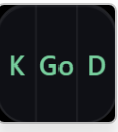
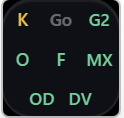
docs: 换新截图并同步 11 家平台与体积口径
新增两张实机截图（悬浮球 8 个监控对象、展开面板含 Devin 在内的 11 家平台明细），
替换原来只覆盖 6 家的旧图；图片下方补一句图注说明格色与倒计时的含义。
体积文案同步实测值（exe 11.14 MB、工作集 65.6 MB），Factory 一行改成
「Standard 用满后改由 Core 池接管展示」。

diff --git a/README.md b/README.md
@@ -7,13 +7,15 @@ A desktop floating ball + AI platform quota monitoring tool: displays API quota 
 ![Floating Ball](docs/screenshots/preview-1.png)
 ![Expanded Panel](docs/screenshots/preview-2.png)
 
+<sub>Floating ball: one cell per monitored object, cell color = status (green / yellow / red, off when exhausted). Expanded panel: every object's windows and countdown, the countdown labelled with the window it belongs to.</sub>
+
 **11 platforms**: [Kimi](https://platform.kimi.com) · [Xfyun](https://maas.xfyun.cn) · [OpenCode Go](https://opencode.ai/zen) · [Xiaomi MiMo](https://platform.xiaomimimo.com) · [DeepSeek](https://www.deepseek.com/platform) · [Ollama](https://ollama.com/settings) · [Command Code](https://commandcode.ai) · [Factory Droid](https://factory.ai) · [MiniMax](https://platform.minimaxi.com) · [Open Design](https://open-design.ai) · [Devin](https://app.devin.ai)
 
 > The registry supports 11 platforms. A **monitored object** is one credential × one plan card, so a platform with two API keys or two plans takes more than one cell. The floating ball shows **up to 9 objects normally, up to 16 in extended mode**; anything beyond that collapses into a `+N` cell (the panel still lists every object).
 
 - **Tech Stack**: Go 1.24 + Wails v2.12.0 + Vanilla HTML/CSS/JS (Vite bundling)
 - **Platform**: Windows 10+ (WebView2 Runtime)
-- **Footprint**: ~10.9 MB single executable, ~60 MB working set while running
+- **Footprint**: ~11.1 MB single executable, ~66 MB working set while running
 
 ## Features
 
@@ -37,7 +39,7 @@ A desktop floating ball + AI platform quota monitoring tool: displays API quota 
 | [DeepSeek](https://www.deepseek.com/platform) | API Key (`sk-...`) | balance | Account balance (balance type) |
 | [Ollama](https://ollama.com/settings) | Browser session Cookie | usage | Cloud 5-hour Session usage / weekly usage (settings page) |
 | [Command Code](https://commandcode.ai) | API Key (`user_...`, or auto-read `~/.commandcode/auth.json` if empty) | usage | 5-hour / weekly rolling window usage + remaining credits |
-| [Factory Droid](https://factory.ai) | API Key (`fk-...`, or auto-read `~/.factory/.env` if empty) | usage | 5-hour / weekly / monthly windows + Core pool usage |
+| [Factory Droid](https://factory.ai) | API Key (`fk-...`, or auto-read `~/.factory/.env` if empty) | usage | 5-hour / weekly / monthly windows; the Core pool takes over the display once Standard is capped |
 | [MiniMax](https://platform.minimaxi.com) | Subscription Key (`sk-cp-...`) | usage | 5-hour / weekly window usage (Token Plan) |
 | [Open Design](https://open-design.ai) | Browser session Cookie | usage | Design Plan 5-hour / 7-day quota usage |
 | [Devin](https://app.devin.ai) | Token (or auto-read the local Devin Desktop login if empty) | usage | Daily / weekly quota usage of the Devin plan |

diff --git a/README.zh-CN.md b/README.zh-CN.md
@@ -7,13 +7,15 @@
 ![悬浮球](docs/screenshots/preview-1.png)
 ![展开面板](docs/screenshots/preview-2.png)
 
+<sub>悬浮球：一个监控对象一格，格字颜色 = 状态色（绿 / 黄 / 红，额度耗尽时熄灭）。展开面板：逐行列出每个对象的窗口用量与倒计时，倒计时标明它属于哪个窗口。</sub>
+
 **十一家平台**：[Kimi](https://platform.kimi.com) · [讯飞星辰](https://maas.xfyun.cn) · [OpenCode Go](https://opencode.ai/zen) · [小米 MiMo](https://platform.xiaomimimo.com) · [DeepSeek](https://www.deepseek.com/platform) · [Ollama](https://ollama.com/settings) · [Command Code](https://commandcode.ai) · [Factory Droid](https://factory.ai) · [MiniMax](https://platform.minimaxi.com) · [Open Design](https://open-design.ai) · [Devin](https://app.devin.ai)
 
 > 注册表支持 11 家平台。一个**监控对象** = 一组凭证 × 一张套餐卡，所以同平台两把 Key、两个套餐都会各占一格。悬浮球**普通模式最多 9 个对象，扩展模式最多 16 个**；超出的合并成一格 `+N`（展开面板仍逐行列出全部对象）。
 
 - **技术栈**: Go 1.24 + Wails v2.12.0 + 原生 HTML/CSS/JS (Vite 打包)
 - **平台**: Windows 10+ (WebView2 运行时)
-- **体积**: 单个 exe 约 10.9 MB，运行中工作集约 60 MB
+- **体积**: 单个 exe 约 11.1 MB，运行中工作集约 66 MB
 
 ## 功能
 
@@ -37,7 +39,7 @@
 | [DeepSeek](https://www.deepseek.com/platform) | API Key (`sk-...`) | balance | 账户余额（余额型） |
 | [Ollama](https://ollama.com/settings) | 浏览器会话 Cookie | usage | Cloud 5 小时 Session 用量 / 周用量（设置页） |
 | [Command Code](https://commandcode.ai) | API Key (`user_...`,留空自动读 `~/.commandcode/auth.json`) | usage | 5 小时 / 周滚动窗口用量 + 剩余 credits |
-| [Factory Droid](https://factory.ai) | API Key (`fk-...`,留空自动读 `~/.factory/.env`) | usage | 5 小时 / 周 / 月窗口 + Core 池用量 |
+| [Factory Droid](https://factory.ai) | API Key (`fk-...`,留空自动读 `~/.factory/.env`) | usage | 5 小时 / 周 / 月窗口；Standard 用满后改由 Core 池接管展示 |
 | [MiniMax](https://platform.minimaxi.com) | 订阅 Key (`sk-cp-...`) | usage | 5 小时 / 周窗口用量（Token Plan） |
 | [Open Design](https://open-design.ai) | 浏览器会话 Cookie | usage | Design Plan 5 小时 / 7 天额度用量 |
 | [Devin](https://app.devin.ai) | Token（留空自动读本机 Devin Desktop 登录态） | usage | Devin 套餐的每日 / 每周额度用量 |
